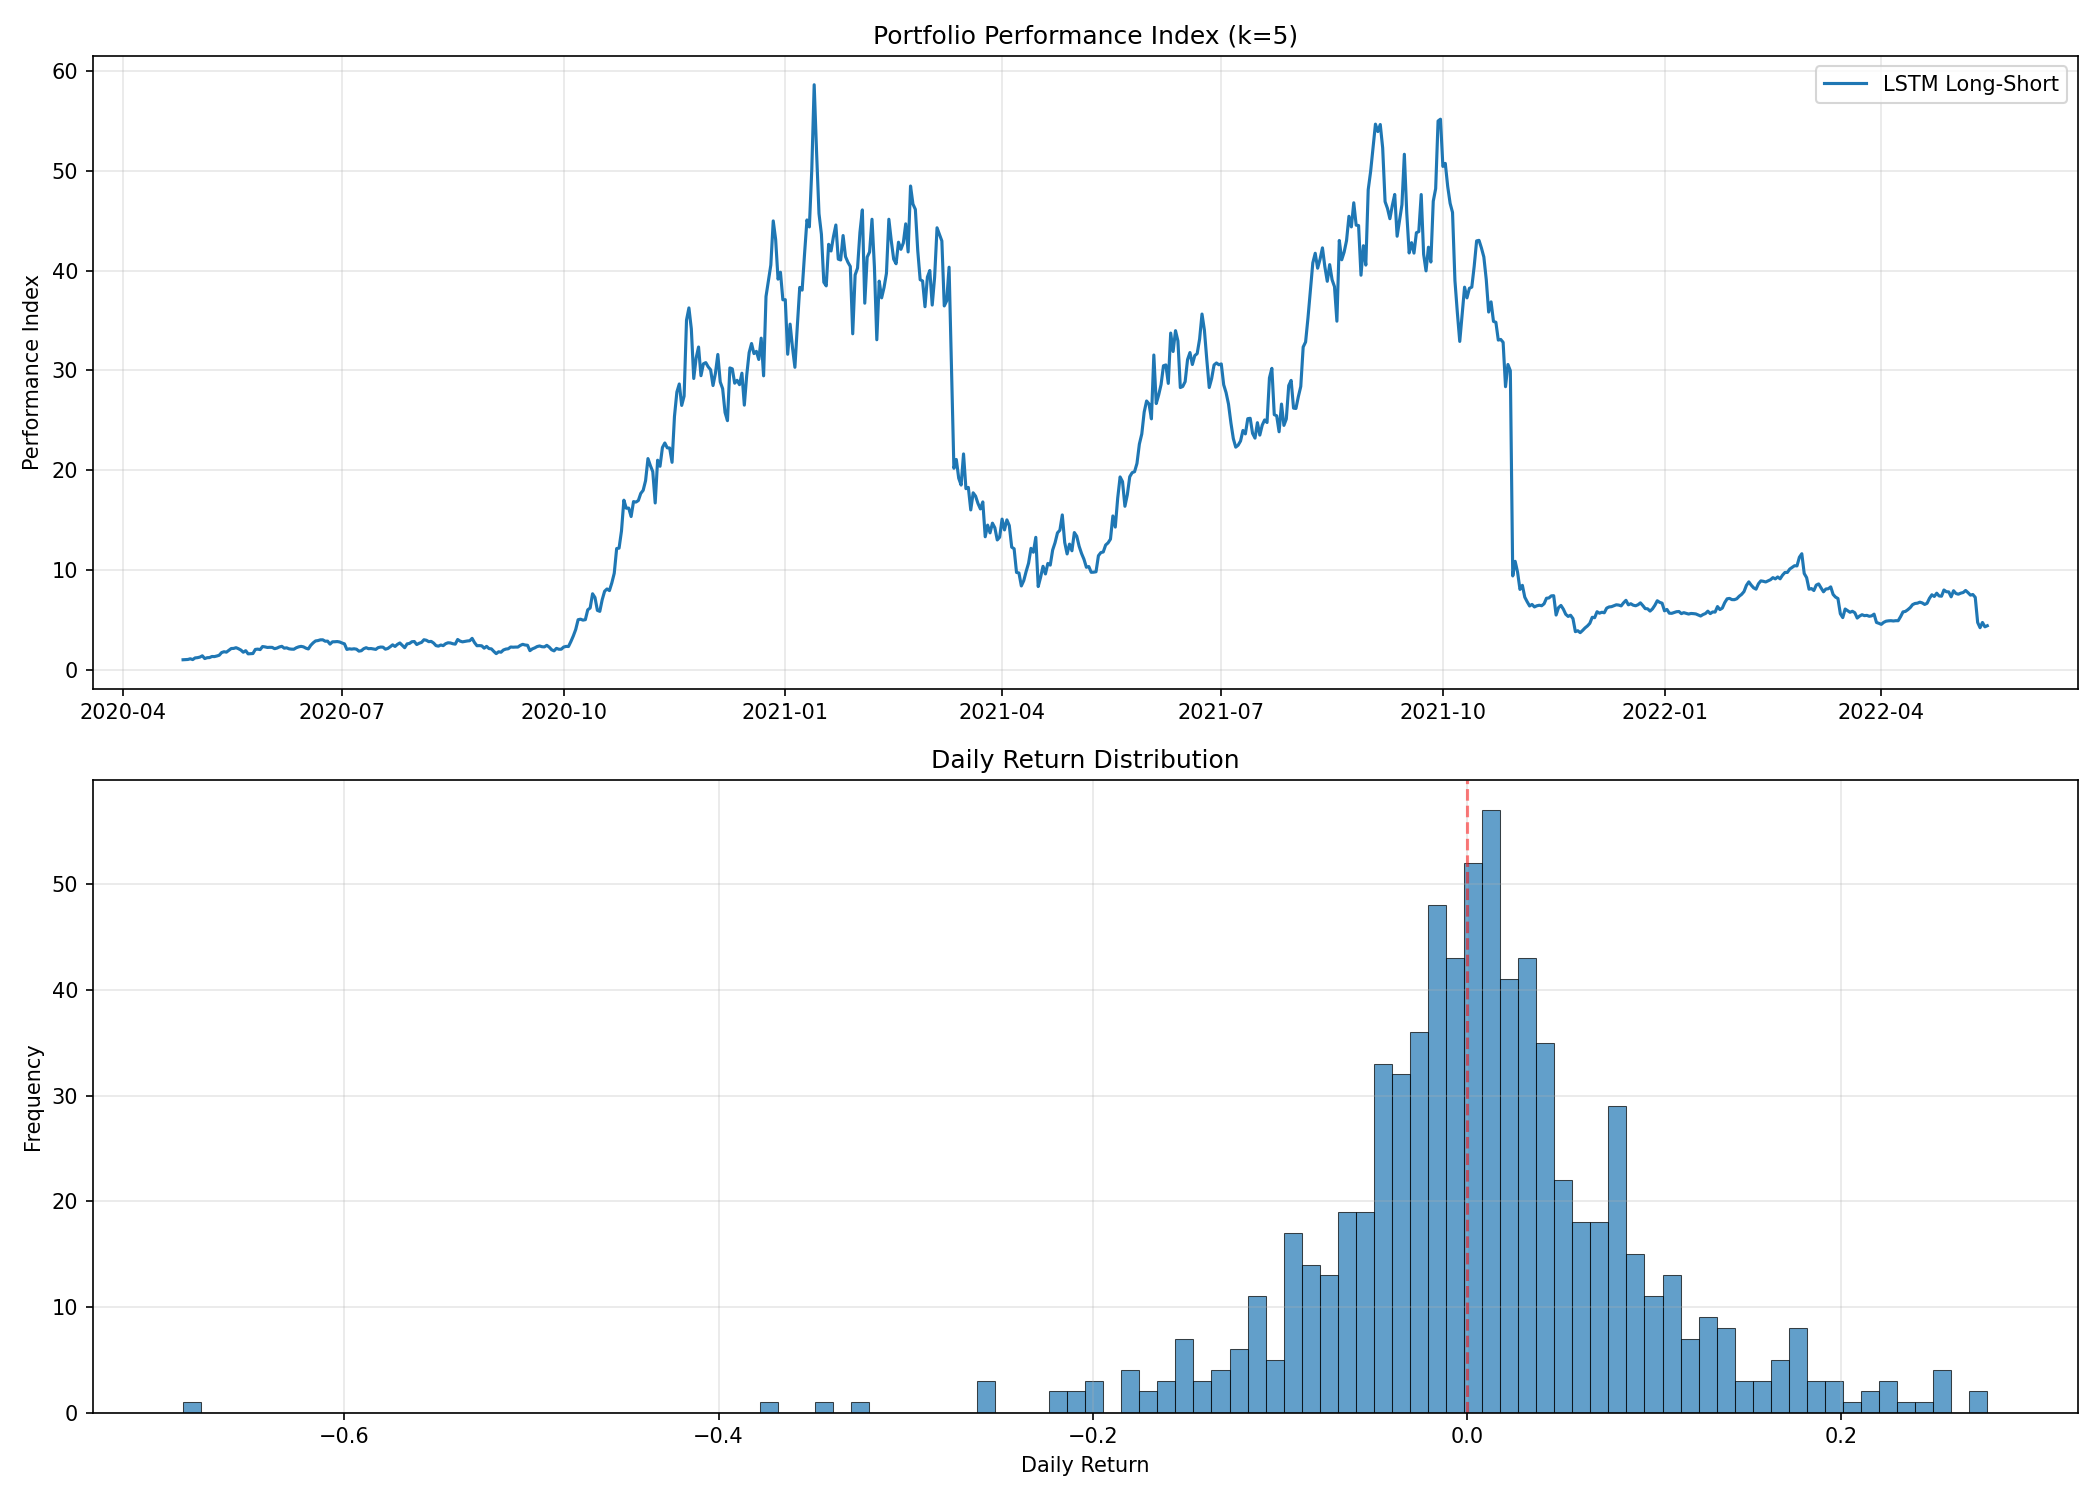
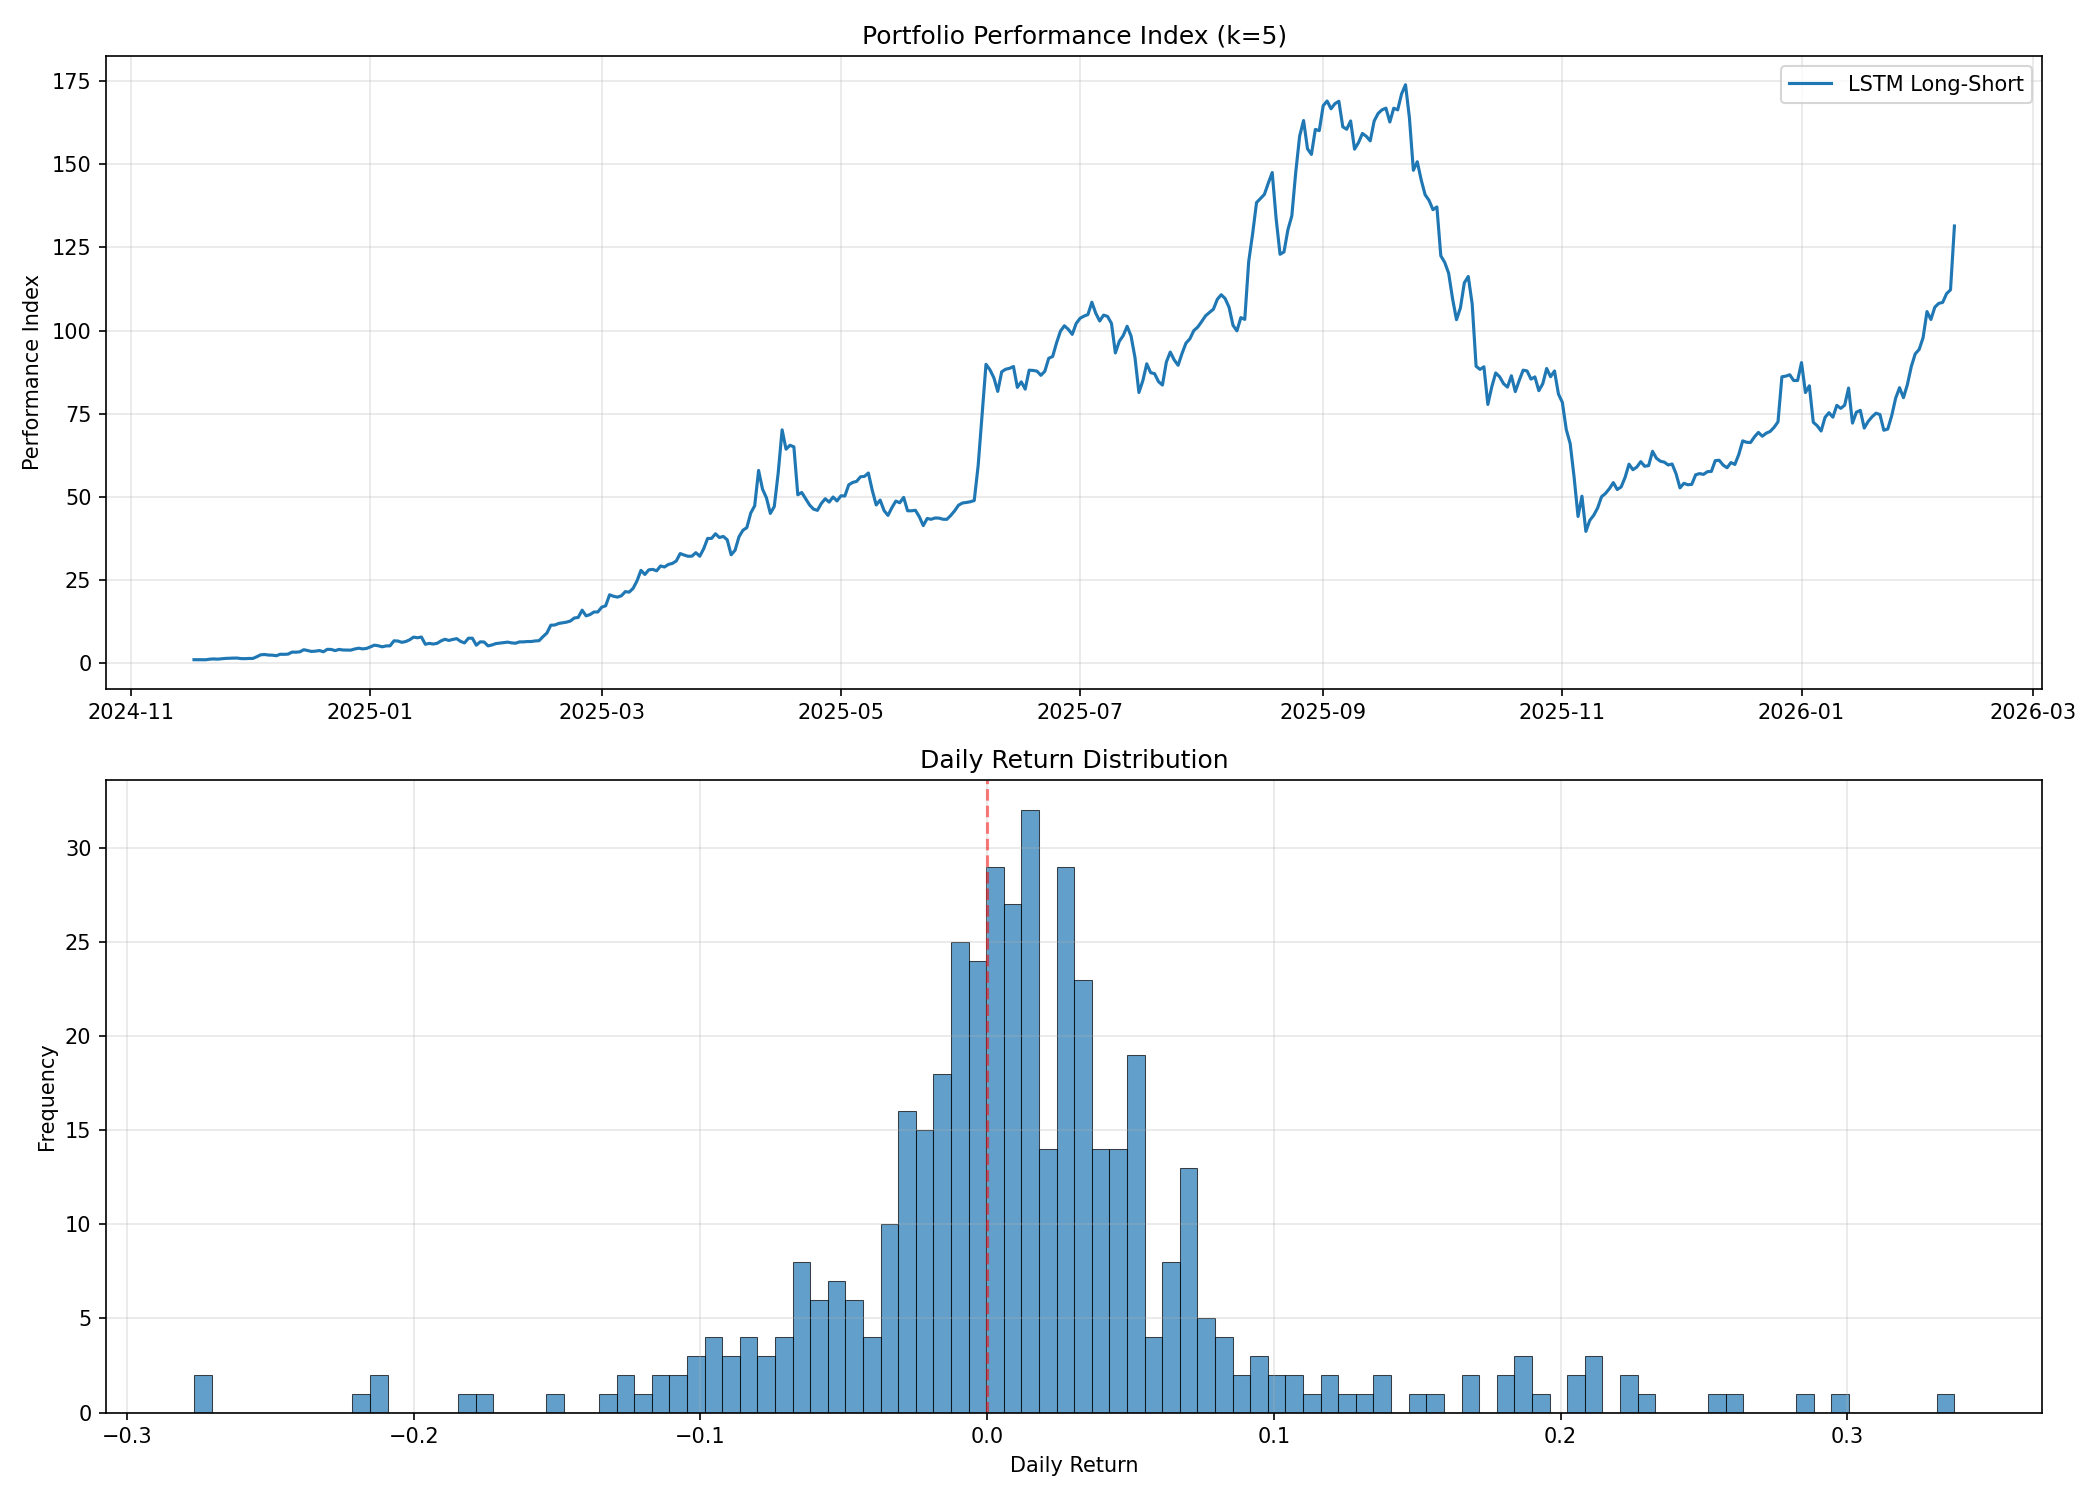
feat: 直近データで実験

diff --git a/data/collector.py b/data/collector.py
@@ -20,27 +20,31 @@ from config import DATA_DIR, STUDY_PERIODS
 # ステーブルコイン・問題銘柄は除外済み
 # yfinance では "{SYMBOL}-USD" 形式
 CRYPTO_TICKERS = [
+    # --- 大型 (Top 20) ---
     "BTC-USD", "ETH-USD", "BNB-USD", "XRP-USD", "ADA-USD",
     "SOL-USD", "DOGE-USD", "DOT-USD", "AVAX-USD", "SHIB-USD",
-    "MATIC-USD", "LTC-USD", "UNI-USD", "LINK-USD", "ATOM-USD",
-    "XLM-USD", "ETC-USD", "BCH-USD", "ALGO-USD", "VET-USD",
-    "ICP-USD", "FIL-USD", "TRX-USD", "MANA-USD", "SAND-USD",
-    "AXS-USD", "THETA-USD", "XTZ-USD", "AAVE-USD", "EOS-USD",
-    "MKR-USD", "KCS-USD", "ZEC-USD", "NEO-USD", "DASH-USD",
-    "WAVES-USD", "BAT-USD", "ENJ-USD", "CHZ-USD", "COMP-USD",
-    "HOT-USD", "XEM-USD", "IOTA-USD", "SNX-USD", "YFI-USD",
-    "SUSHI-USD", "ZIL-USD", "BTT-USD", "ONE-USD", "CELO-USD",
-    "GRT-USD", "CRV-USD", "QTUM-USD", "OMG-USD", "ICX-USD",
-    "RVN-USD", "ANKR-USD", "ONT-USD", "IOST-USD", "ZRX-USD",
-    "KSM-USD", "NANO-USD", "BNT-USD", "LSK-USD", "DGB-USD",
-    "SC-USD", "STORJ-USD", "SKL-USD", "CELR-USD", "CKB-USD",
-    "SRM-USD", "DENT-USD", "FTM-USD", "KAVA-USD", "1INCH-USD",
-    "NEAR-USD", "EGLD-USD", "RUNE-USD", "HNT-USD", "FLOW-USD",
-    "AR-USD", "HBAR-USD", "XDC-USD", "LUNA-USD", "FTT-USD",
-    "NEXO-USD", "LRC-USD", "KNC-USD", "COTI-USD", "REN-USD",
-    "NKN-USD", "BAND-USD", "OGN-USD", "STMX-USD", "MTL-USD",
-    "GALA-USD", "IMX-USD", "LDO-USD", "APE-USD", "OP-USD",
-    "CRO-USD", "LEO-USD", "OKB-USD", "QNT-USD", "MINA-USD",
+    "TRX-USD", "LINK-USD", "LTC-USD", "BCH-USD", "UNI-USD",
+    "NEAR-USD", "ATOM-USD", "XLM-USD", "ETC-USD", "HBAR-USD",
+    # --- 中型 (21-60) ---
+    "ICP-USD", "FIL-USD", "VET-USD", "ALGO-USD", "AAVE-USD",
+    "MKR-USD", "GRT-USD", "SAND-USD", "MANA-USD", "AXS-USD",
+    "THETA-USD", "XTZ-USD", "EOS-USD", "CHZ-USD", "COMP-USD",
+    "SNX-USD", "CRV-USD", "ENJ-USD", "BAT-USD", "ZEC-USD",
+    "DASH-USD", "NEO-USD", "1INCH-USD", "KAVA-USD", "CELO-USD",
+    "ZIL-USD", "ONE-USD", "ANKR-USD", "ZRX-USD", "KSM-USD",
+    "LRC-USD", "SKL-USD", "STORJ-USD", "GALA-USD", "IMX-USD",
+    "LDO-USD", "OP-USD", "QNT-USD", "FTM-USD", "FLOW-USD",
+    # --- 2023-2026年の主要新規銘柄 ---
+    "SUI-USD", "APT-USD", "ARB-USD", "SEI-USD", "TIA-USD",
+    "INJ-USD", "STX-USD", "RENDER-USD", "FET-USD", "PEPE-USD",
+    "FLOKI-USD", "WIF-USD", "BONK-USD", "JUP-USD", "PYTH-USD",
+    "WLD-USD", "ONDO-USD", "TAO-USD", "KAS-USD", "PENDLE-USD",
+    # --- その他中型 ---
+    "AR-USD", "EGLD-USD", "RUNE-USD", "CRO-USD", "LEO-USD",
+    "OKB-USD", "MINA-USD", "APE-USD", "NEXO-USD", "SC-USD",
+    "DGB-USD", "COTI-USD", "KNC-USD", "BAND-USD", "RVN-USD",
+    "ICX-USD", "ONT-USD", "XDC-USD", "HOT-USD", "YFI-USD",
+    "SUSHI-USD", "BNT-USD", "DENT-USD", "CKB-USD", "NKN-USD",
 ]
 
 

diff --git a/config.py b/config.py
@@ -32,33 +32,21 @@ TEST_DAYS = 150
 STUDY_PERIODS = [
     {
         "id": 1,
-        "train": ("2018-07-16", "2019-11-27"),
-        "val":   ("2019-11-28", "2020-04-25"),
-        "test":  ("2020-04-26", "2020-09-22"),
+        "train": ("2023-02-06", "2024-06-19"),
+        "val":   ("2024-06-20", "2024-11-16"),
+        "test":  ("2024-11-17", "2025-04-15"),
     },
     {
         "id": 2,
-        "train": ("2018-12-13", "2020-04-25"),
-        "val":   ("2020-04-26", "2020-09-22"),
-        "test":  ("2020-09-23", "2021-02-19"),
+        "train": ("2023-07-06", "2024-11-16"),
+        "val":   ("2024-11-17", "2025-04-15"),
+        "test":  ("2025-04-16", "2025-09-12"),
     },
     {
         "id": 3,
-        "train": ("2019-05-12", "2020-09-22"),
-        "val":   ("2020-09-23", "2021-02-19"),
-        "test":  ("2021-02-20", "2021-07-19"),
-    },
-    {
-        "id": 4,
-        "train": ("2019-10-09", "2021-02-19"),
-        "val":   ("2021-02-20", "2021-07-19"),
-        "test":  ("2021-07-20", "2021-12-16"),
-    },
-    {
-        "id": 5,
-        "train": ("2020-03-07", "2021-07-19"),
-        "val":   ("2021-07-20", "2021-12-16"),
-        "test":  ("2021-12-17", "2022-05-15"),
+        "train": ("2023-12-03", "2025-04-15"),
+        "val":   ("2025-04-16", "2025-09-12"),
+        "test":  ("2025-09-13", "2026-02-09"),
     },
 ]
 
